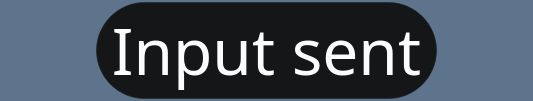
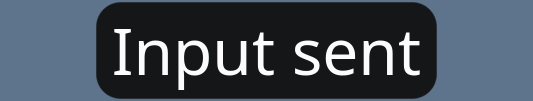
Refresh Linux popup screenshots for the accepted connected contour

diff --git a/docs/img/linux-unified-popup/README.md b/docs/img/linux-unified-popup/README.md
@@ -1,7 +1,9 @@
-Before-and-after captures of the real Qt `TranscriberPopup`, using the same input text and simulated microphone levels. Before source is `b67b7fc`; after source is this PR. Both use Qt 6.10.2, the Breeze widget style, `QT_QPA_PLATFORM=offscreen`, `QT_QPA_PLATFORMTHEME=kde`, and an isolated `XDG_CONFIG_HOME` containing BreezeLight or BreezeDark colours.
+Before-and-after captures of the real Qt `TranscriberPopup`, using the same input text and simulated microphone levels. Before source is `b67b7fc`; after source is `780a9a3`, matching the accepted Linux test popup at `575671e`. The after captures show the latest connected outline with rounded cutouts and shimmering sign-in renewal. Both use Qt 6.10.2, the Breeze widget style, `QT_QPA_PLATFORM=offscreen`, `QT_QPA_PLATFORMTHEME=kde`, and an isolated `XDG_CONFIG_HOME` containing BreezeLight or BreezeDark colours.
 
 The comparison sheets arrange the original PNGs without resizing them. The blue-grey backdrop is added to make the transparent popup visible; it is not an app colour or a desktop screenshot. Animation frames are illustrative, not pixel-identical timing comparisons.
 
 Coverage: listening with no preview, short and long live previews, transcribing, refining before and after words arrive, delivery receipt, sign-in renewal, short and long errors, permission errors, and both update banners. All captures were visually inspected. The Dictation page continues to use the waveform's standalone capsule.
 
 The additional `before-large-font-*` / `after-large-font-*` pairs use a 48-point application font on Breeze Dark. They verify that the shared capsule preserves the baseline's readable status and receipt at large font sizes. The final popup positioning test also checks that a long error remains inside the screen with the normal bottom clearance.
+
+The preview text sits above the compact waveform or processing label. The lower contour hugs the painted content with rounded transitions. These images retain the accepted Linux spacing; the later request for more vertical padding applies to the native macOS and Windows PR.
